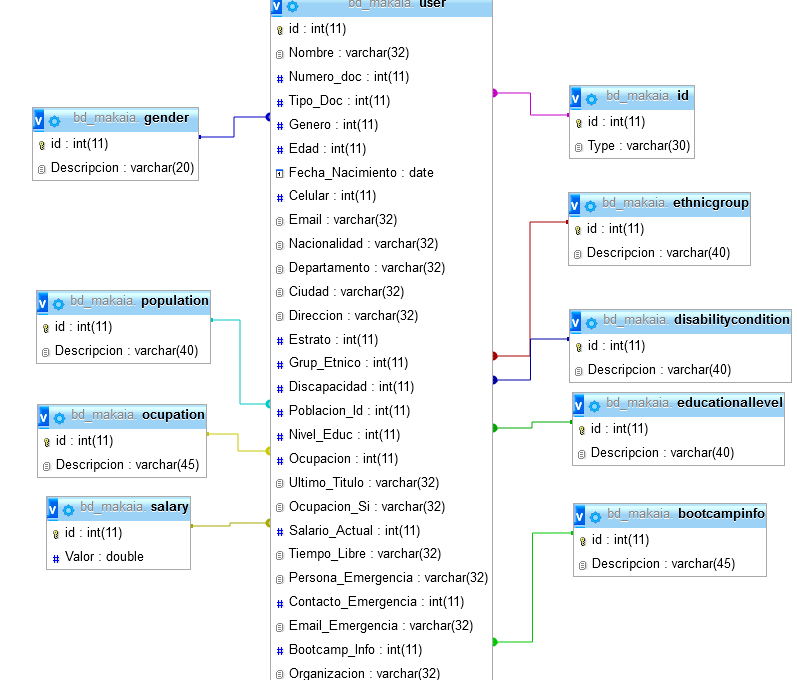
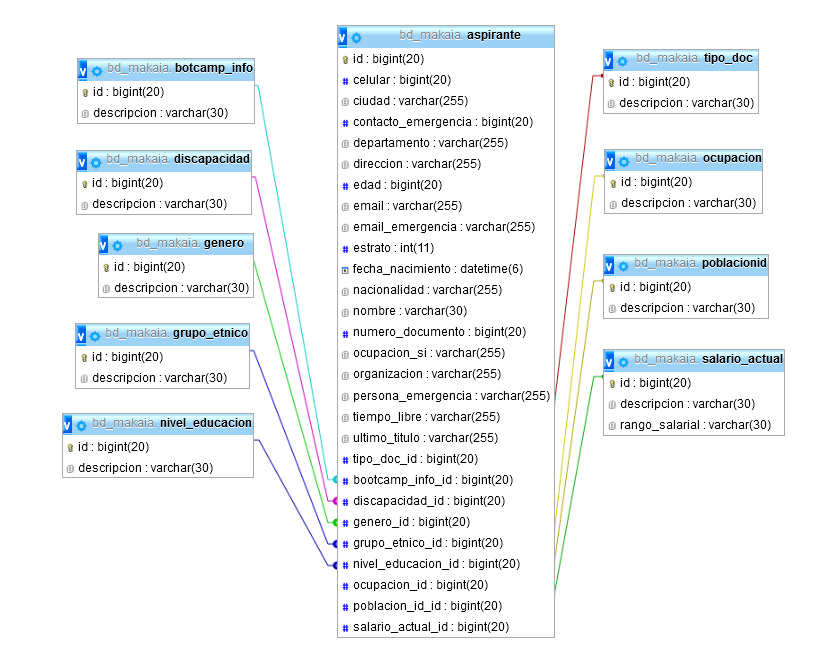
add packages

Changed region(s): [[0.0301, 0.0, 0.9937, 1.0], [0.2409, 0.7704, 0.271, 0.8012]]

diff --git a/microservicioRegistro/src/main/java/com/makaia/modRegistro/microservicioRegistro/Entities/Salario_Actual.java b/microservicioRegistro/src/main/java/com/makaia/modRegistro/microservicioRegistro/Entities/Salario_Actual.java
@@ -1,0 +1,39 @@
+package com.makaia.modRegistro.microservicioRegistro.Entities;
+
+import jakarta.persistence.*;
+
+import java.util.List;
+
+@Entity
+@Table(name = "Salario_Actual")
+public class Salario_Actual {
+    @Id
+    @GeneratedValue(strategy = GenerationType.IDENTITY)
+    protected Long id;
+    @Column(length = 30)
+    private String Rango_Salarial;
+    @OneToMany(mappedBy = "salario_actual")
+    List<Aspirante> aspirantes;
+    public Salario_Actual() {
+    }
+
+    public Salario_Actual(String rangoSalarial) {
+        Rango_Salarial = rangoSalarial;
+    }
+
+    public Long getId() {
+        return id;
+    }
+
+    public void setId(Long id) {
+        this.id = id;
+    }
+
+    public String getRango_Salarial() {
+        return Rango_Salarial;
+    }
+
+    public void setRango_Salarial(String rango_Salarial) {
+        Rango_Salarial = rango_Salarial;
+    }
+}

diff --git a/microservicioRegistro/src/main/java/com/makaia/modRegistro/microservicioRegistro/Entities/PoblacionIdentificacion.java b/microservicioRegistro/src/main/java/com/makaia/modRegistro/microservicioRegistro/Entities/PoblacionIdentificacion.java
@@ -1,0 +1,40 @@
+package com.makaia.modRegistro.microservicioRegistro.Entities;
+
+import jakarta.persistence.*;
+
+import java.util.List;
+
+@Entity
+@Table(name = "PoblacionID")
+public class PoblacionIdentificacion {
+    @Id
+    @GeneratedValue(strategy = GenerationType.IDENTITY)
+    protected Long id;
+    @Column(length = 30)
+    private String Descripcion;
+    @OneToMany(mappedBy = "poblacion_Id")
+    List<Aspirante> aspirantes;
+
+    public PoblacionIdentificacion() {
+    }
+
+    public PoblacionIdentificacion(String descripcion) {
+        Descripcion = descripcion;
+    }
+
+    public Long getId() {
+        return id;
+    }
+
+    public void setId(Long id) {
+        this.id = id;
+    }
+
+    public String getDescripcion() {
+        return Descripcion;
+    }
+
+    public void setDescripcion(String descripcion) {
+        Descripcion = descripcion;
+    }
+}

diff --git a/microservicioRegistro/src/main/java/com/makaia/modRegistro/microservicioRegistro/Entities/Nivel_Educacion.java b/microservicioRegistro/src/main/java/com/makaia/modRegistro/microservicioRegistro/Entities/Nivel_Educacion.java
@@ -1,0 +1,39 @@
+package com.makaia.modRegistro.microservicioRegistro.Entities;
+
+import jakarta.persistence.*;
+
+import java.util.List;
+
+@Entity
+@Table(name = "NivelEducacion")
+public class Nivel_Educacion {
+    @Id
+    @GeneratedValue(strategy = GenerationType.IDENTITY)
+    protected Long id;
+    @Column(length = 30)
+    private String Descripcion;
+    @OneToMany(mappedBy = "nivel_educacion")
+    List<Aspirante> aspirantes;
+    public Nivel_Educacion() {
+    }
+
+    public Nivel_Educacion(String descripcion) {
+        Descripcion = descripcion;
+    }
+
+    public Long getId() {
+        return id;
+    }
+
+    public void setId(Long id) {
+        this.id = id;
+    }
+
+    public String getDescripcion() {
+        return Descripcion;
+    }
+
+    public void setDescripcion(String descripcion) {
+        Descripcion = descripcion;
+    }
+}

diff --git a/microservicioRegistro/src/main/java/com/makaia/modRegistro/microservicioRegistro/Entities/Bootcamp_Info.java b/microservicioRegistro/src/main/java/com/makaia/modRegistro/microservicioRegistro/Entities/Bootcamp_Info.java
@@ -1,0 +1,39 @@
+package com.makaia.modRegistro.microservicioRegistro.Entities;
+
+import jakarta.persistence.*;
+
+import java.util.List;
+
+@Entity
+@Table(name = "Botcamp_Info")
+public class Bootcamp_Info {
+    @Id
+    @GeneratedValue(strategy = GenerationType.IDENTITY)
+    protected Long id;
+    @Column(length = 30)
+    private String Descripcion;
+    @OneToMany(mappedBy = "bootcamp_info")
+    List<Aspirante> aspirantes;
+    public Bootcamp_Info() {
+    }
+
+    public Bootcamp_Info(String descripcion) {
+        Descripcion = descripcion;
+    }
+
+    public Long getId() {
+        return id;
+    }
+
+    public void setId(Long id) {
+        this.id = id;
+    }
+
+    public String getDescripcion() {
+        return Descripcion;
+    }
+
+    public void setDescripcion(String descripcion) {
+        Descripcion = descripcion;
+    }
+}

diff --git a/microservicioRegistro/src/main/java/com/makaia/modRegistro/microservicioRegistro/Entities/Discapacidad.java b/microservicioRegistro/src/main/java/com/makaia/modRegistro/microservicioRegistro/Entities/Discapacidad.java
@@ -1,0 +1,40 @@
+package com.makaia.modRegistro.microservicioRegistro.Entities;
+
+import jakarta.persistence.*;
+
+import java.util.List;
+
+@Entity
+@Table(name = "Discapacidad")
+public class Discapacidad {
+    @Id
+    @GeneratedValue(strategy = GenerationType.IDENTITY)
+    protected Long id;
+    @Column(length = 30)
+    private String Descripcion;
+    @OneToMany(mappedBy = "discapacidad")
+    List<Aspirante> aspirantes;
+
+    public Discapacidad() {
+    }
+
+    public Discapacidad(String descripcion) {
+        Descripcion = descripcion;
+    }
+
+    public Long getId() {
+        return id;
+    }
+
+    public void setId(Long id) {
+        this.id = id;
+    }
+
+    public String getDescripcion() {
+        return Descripcion;
+    }
+
+    public void setDescripcion(String descripcion) {
+        Descripcion = descripcion;
+    }
+}

diff --git a/microservicioRegistro/src/main/java/com/makaia/modRegistro/microservicioRegistro/Entities/GrupEtnico.java b/microservicioRegistro/src/main/java/com/makaia/modRegistro/microservicioRegistro/Entities/GrupEtnico.java
@@ -1,0 +1,40 @@
+package com.makaia.modRegistro.microservicioRegistro.Entities;
+
+import jakarta.persistence.*;
+
+import java.util.List;
+
+@Entity
+@Table(name = "Grupo_Etnico")
+public class GrupEtnico {
+    @Id
+    @GeneratedValue(strategy = GenerationType.IDENTITY)
+    protected Long id;
+    @Column(length = 30)
+    private String Descripcion;
+    @OneToMany(mappedBy = "grupo_etnico")
+    List<Aspirante> aspirantes;
+
+    public GrupEtnico() {
+    }
+
+    public GrupEtnico(String descripcion) {
+        Descripcion = descripcion;
+    }
+
+    public Long getId() {
+        return id;
+    }
+
+    public void setId(Long id) {
+        this.id = id;
+    }
+
+    public String getDescripcion() {
+        return Descripcion;
+    }
+
+    public void setDescripcion(String descripcion) {
+        Descripcion = descripcion;
+    }
+}

diff --git a/microservicioRegistro/src/main/java/com/makaia/modRegistro/microservicioRegistro/Entities/Ocupacion.java b/microservicioRegistro/src/main/java/com/makaia/modRegistro/microservicioRegistro/Entities/Ocupacion.java
@@ -1,0 +1,39 @@
+package com.makaia.modRegistro.microservicioRegistro.Entities;
+
+import jakarta.persistence.*;
+
+import java.util.List;
+
+@Entity
+@Table(name = "Ocupacion")
+public class Ocupacion {
+    @Id
+    @GeneratedValue(strategy = GenerationType.IDENTITY)
+    protected Long id;
+    @Column(length = 30)
+    private String Descripcion;
+    @OneToMany(mappedBy = "ocupacion")
+    List<Aspirante> aspirantes;
+    public Ocupacion() {
+    }
+
+    public Ocupacion(String descripcion) {
+        Descripcion = descripcion;
+    }
+
+    public Long getId() {
+        return id;
+    }
+
+    public void setId(Long id) {
+        this.id = id;
+    }
+
+    public String getDescripcion() {
+        return Descripcion;
+    }
+
+    public void setDescripcion(String descripcion) {
+        Descripcion = descripcion;
+    }
+}

diff --git a/microservicioRegistro/src/main/java/com/makaia/modRegistro/microservicioRegistro/Entities/Tipo_Doc.java b/microservicioRegistro/src/main/java/com/makaia/modRegistro/microservicioRegistro/Entities/Tipo_Doc.java
@@ -1,0 +1,39 @@
+package com.makaia.modRegistro.microservicioRegistro.Entities;
+
+import jakarta.persistence.*;
+
+import java.util.List;
+
+@Entity
+@Table (name = "Tipo_Doc")
+public class Tipo_Doc {
+    @Id
+    @GeneratedValue(strategy = GenerationType.IDENTITY)
+    protected Long id;
+    @Column(length = 30)
+    private String Descripcion;
+    @OneToMany(mappedBy = "tipo_doc")
+    List<Aspirante> aspirantes;
+    public Tipo_Doc() {
+    }
+
+    public Tipo_Doc(String descripcion) {
+        Descripcion = descripcion;
+    }
+
+    public Long getId() {
+        return id;
+    }
+
+    public void setId(Long id) {
+        this.id = id;
+    }
+
+    public String getDescripcion() {
+        return Descripcion;
+    }
+
+    public void setDescripcion(String descripcion) {
+        Descripcion = descripcion;
+    }
+}

diff --git a/microservicioRegistro/src/main/java/com/makaia/modRegistro/microservicioRegistro/Entities/Genero.java b/microservicioRegistro/src/main/java/com/makaia/modRegistro/microservicioRegistro/Entities/Genero.java
@@ -1,0 +1,39 @@
+package com.makaia.modRegistro.microservicioRegistro.Entities;
+
+import jakarta.persistence.*;
+
+import java.util.List;
+
+@Entity
+@Table(name = "Genero")
+public class Genero {
+    @Id
+    @GeneratedValue(strategy = GenerationType.IDENTITY)
+    protected Long id;
+    @Column(length = 30)
+    private String Descripcion;
+    @OneToMany (mappedBy = "genero")
+    List<Aspirante>aspirantes;
+    public Genero() {
+    }
+
+    public Genero(String descripcion) {
+        Descripcion = descripcion;
+    }
+
+    public Long getId() {
+        return id;
+    }
+
+    public void setId(Long id) {
+        this.id = id;
+    }
+
+    public String getDescripcion() {
+        return Descripcion;
+    }
+
+    public void setDescripcion(String descripcion) {
+        Descripcion = descripcion;
+    }
+}
